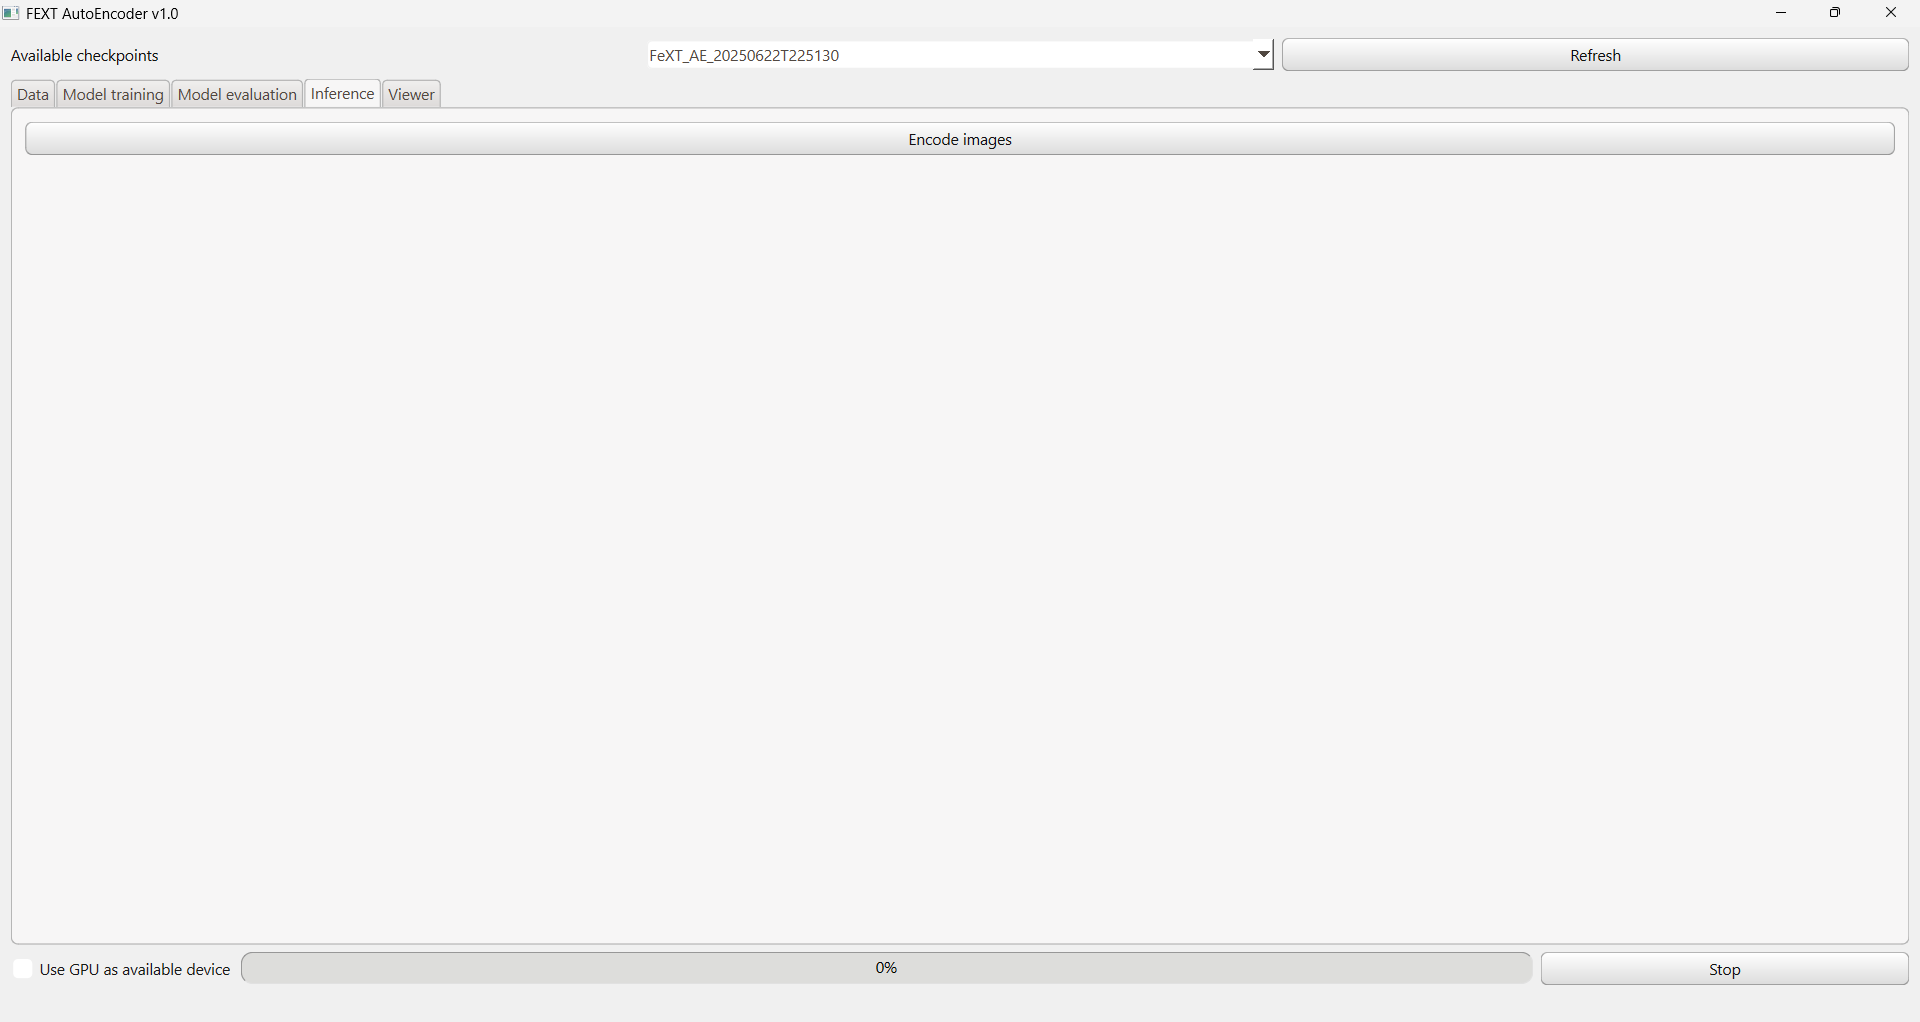
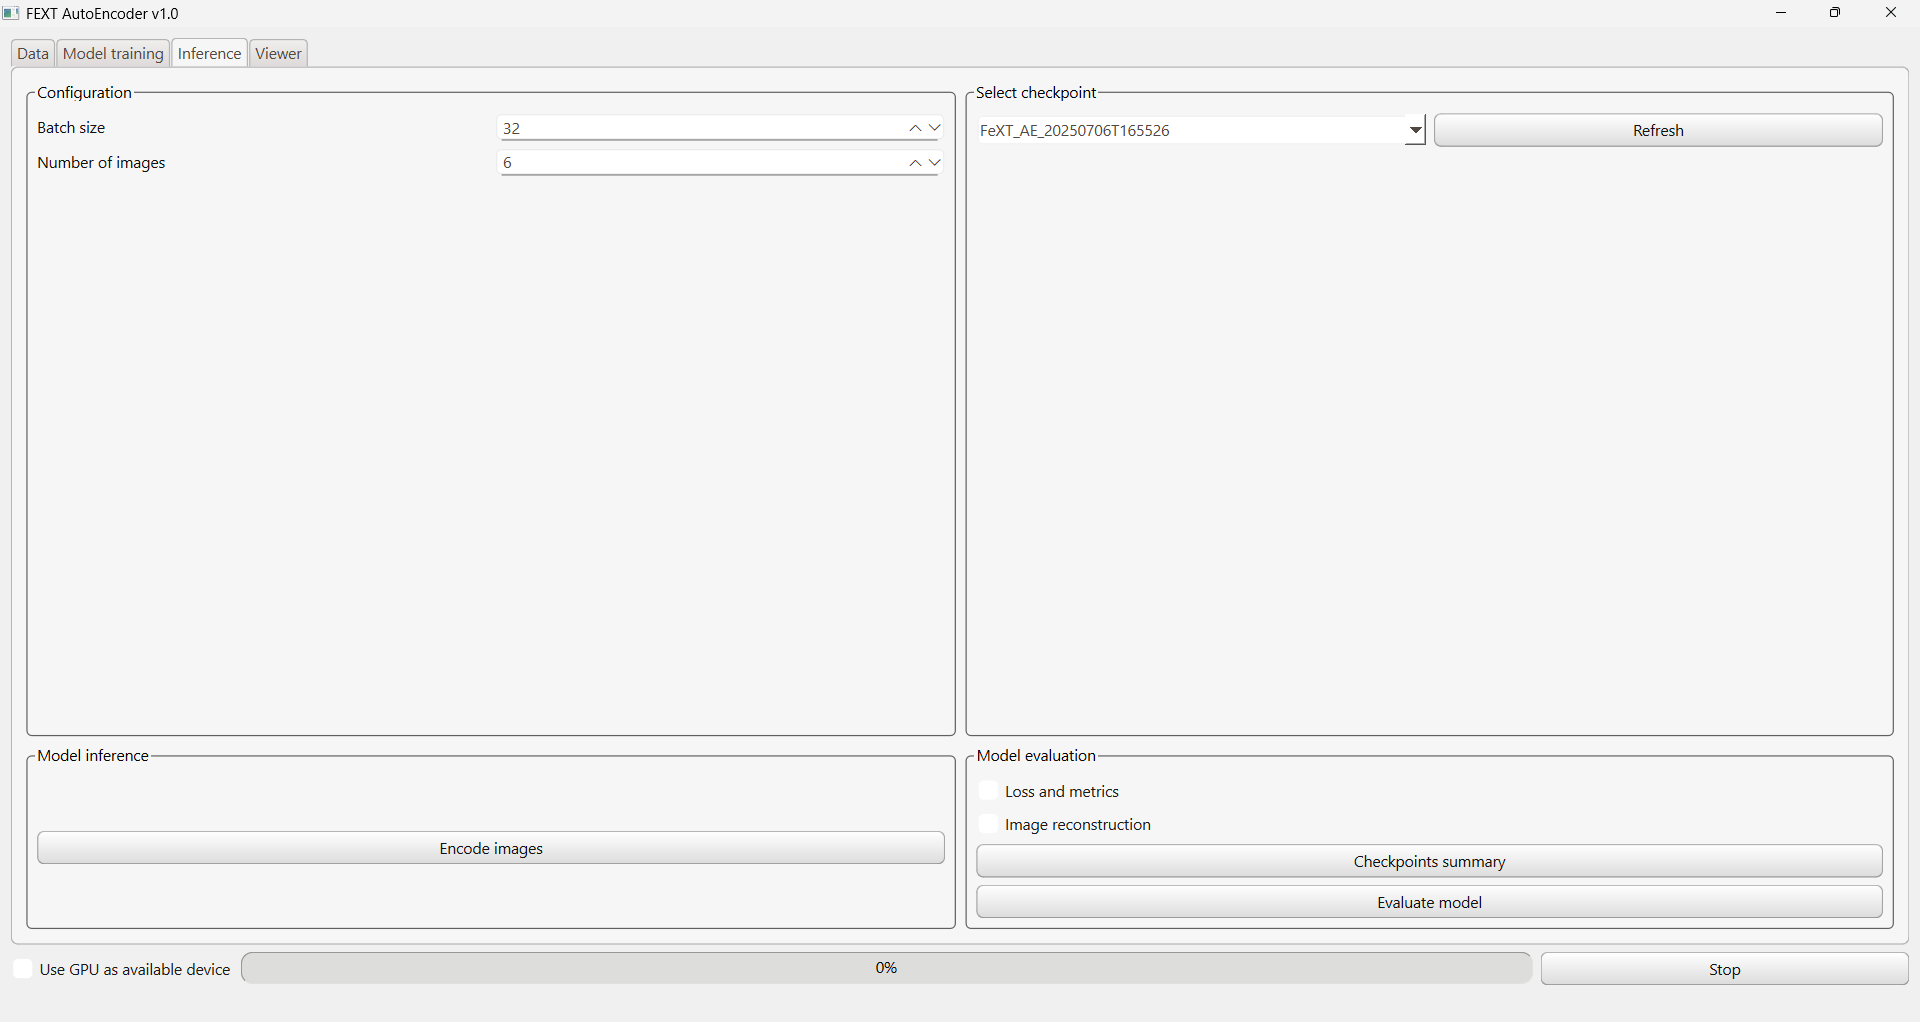
updated README

diff --git a/README.md b/README.md
@@ -46,13 +46,10 @@ The main interface streamlines navigation across the application's core services
 
 ![train_tab](FEXT/app/assets/train_tab.png)
 
-**Model evaluation:** the model is evaluated using different metrics, such as:
+**Inference:** this tab provides both model inference and evaluation functionalities. You can select a model checkpoint and use it to encode images into compact, abstract representations that capture their most relevant features. These low-dimensional embeddings are saved as .npy files in the *resources/inference* directory. For model evaluation, several metrics are computed, including:
+
 - **Average mean squared error and mean average error of reconstruction** 
 - **Visual comparison of random reconstructed images** 
-
-![model_eval_tab](FEXT/app/assets/model_eval_tab.png)
-
-**Inference:** select a model checkpoint and use it to encode images into an abstract representation of the most relevant features. These low-dimension embeddings are saved as .npy files in *resources/inference*
 
 ![inference_tab](FEXT/app/assets/inference_tab.png)
 
